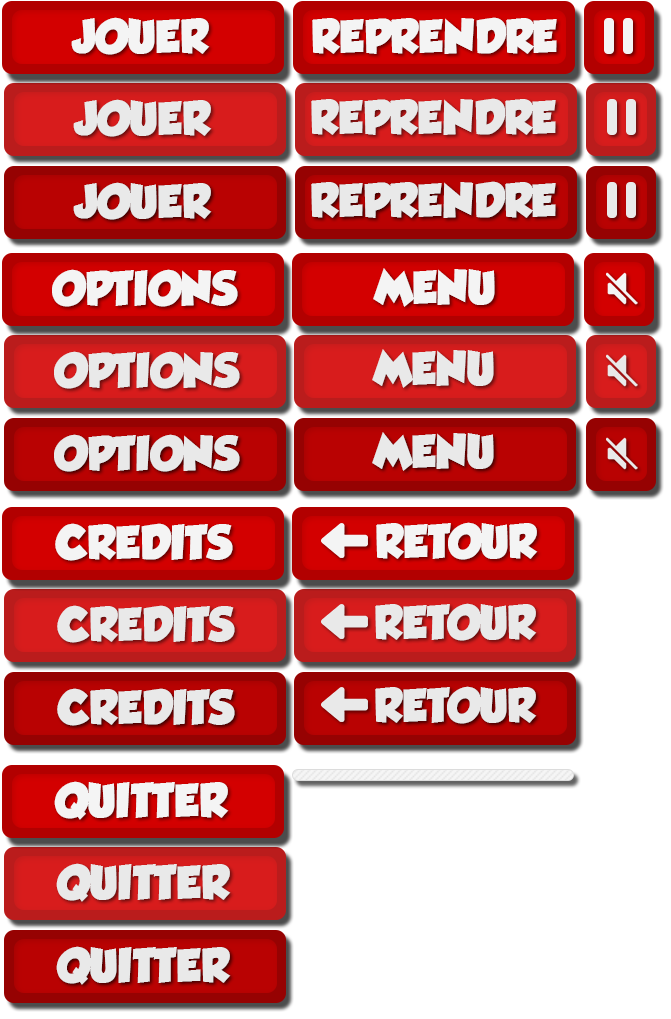
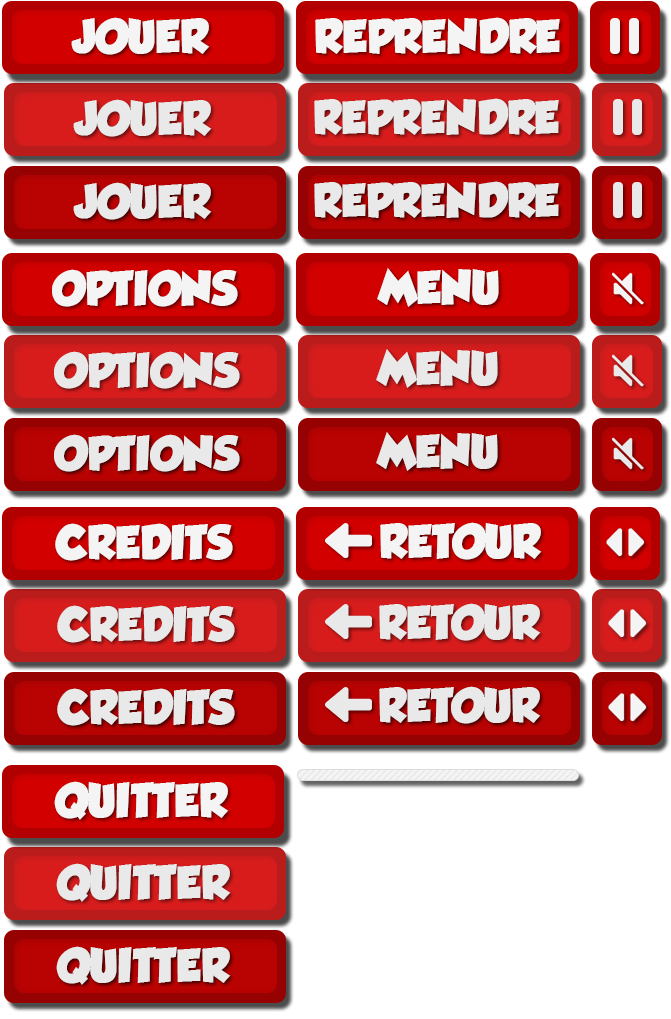
fix slider problem, add new button texture and add grobold font (in ttf)

diff --git a/src/assets/setup/options_buttons.c b/src/assets/setup/options_buttons.c
@@ -10,7 +10,7 @@
 void setup_volume_settings_button(cook_t *cook)
 {
 	button_t conf;
-	sfIntRect rec = { 582, 1, 80, 82 };
+	sfIntRect rec = { 590, 507, 80, 82 };
 	sfVector2f origin = { (rec.width / 2), (rec.height / 2) };
 	sfTexture *texture = get_texture(cook, aBtnSp);
 
@@ -24,7 +24,7 @@ void setup_volume_settings_button(cook_t *cook)
 	conf.sprite = sfSprite_create();
 	sfSprite_setTexture(conf.sprite, texture, sfFalse);
 	sfSprite_setTextureRect(conf.sprite, rec);
-	//sfSprite_setOrigin(conf.sprite, origin);
+	sfSprite_setOrigin(conf.sprite, origin);
 	conf.rect = rec;
 	conf.next = NULL;
 	add_button(cook, conf);
@@ -34,7 +34,7 @@ void setup_volume_settings_button(cook_t *cook)
 void setup_return_settings_button(cook_t *cook)
 {
 	button_t conf;
-	sfIntRect rec = { 291, 507, 290, 82 };
+	sfIntRect rec = { 295, 507, 290, 82 };
 	sfTexture *texture = get_texture(cook, aBtnSp);
 
 	conf.type = btnReturn;

diff --git a/src/assets/setup/credits_buttons.c b/src/assets/setup/credits_buttons.c
@@ -10,7 +10,7 @@
 void setup_return_credits_button(cook_t *cook)
 {
 	button_t conf;
-	sfIntRect rec = { 291, 507, 290, 82 };
+	sfIntRect rec = { 295, 507, 290, 82 };
 	sfTexture *texture = get_texture(cook, aBtnSp);
 
 	conf.type = btnReturn;
